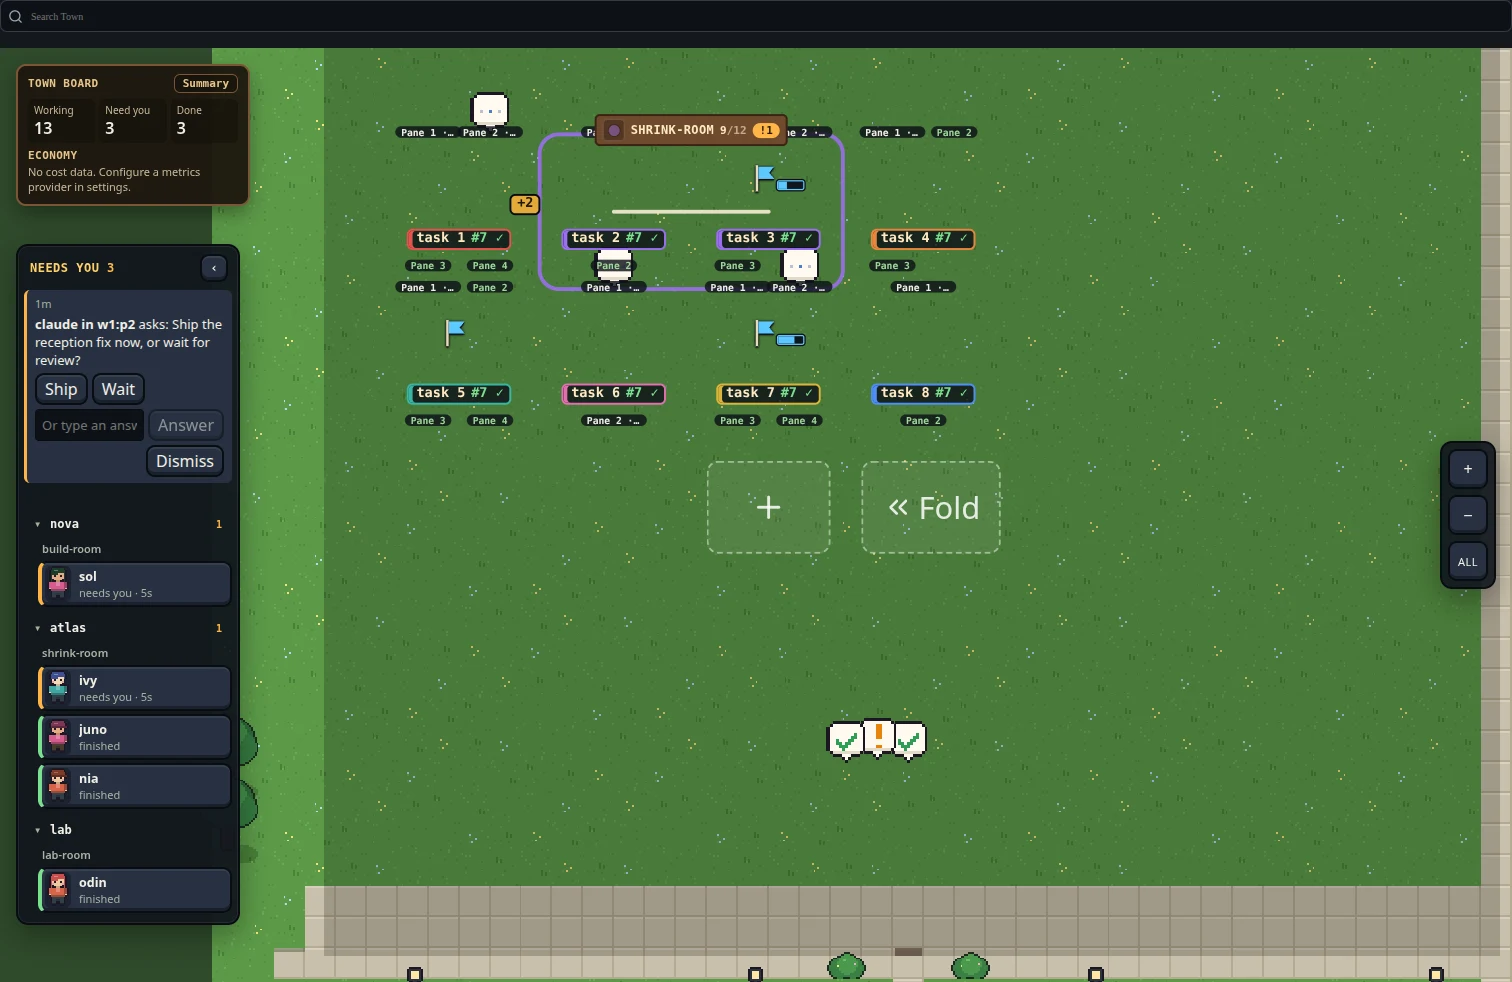
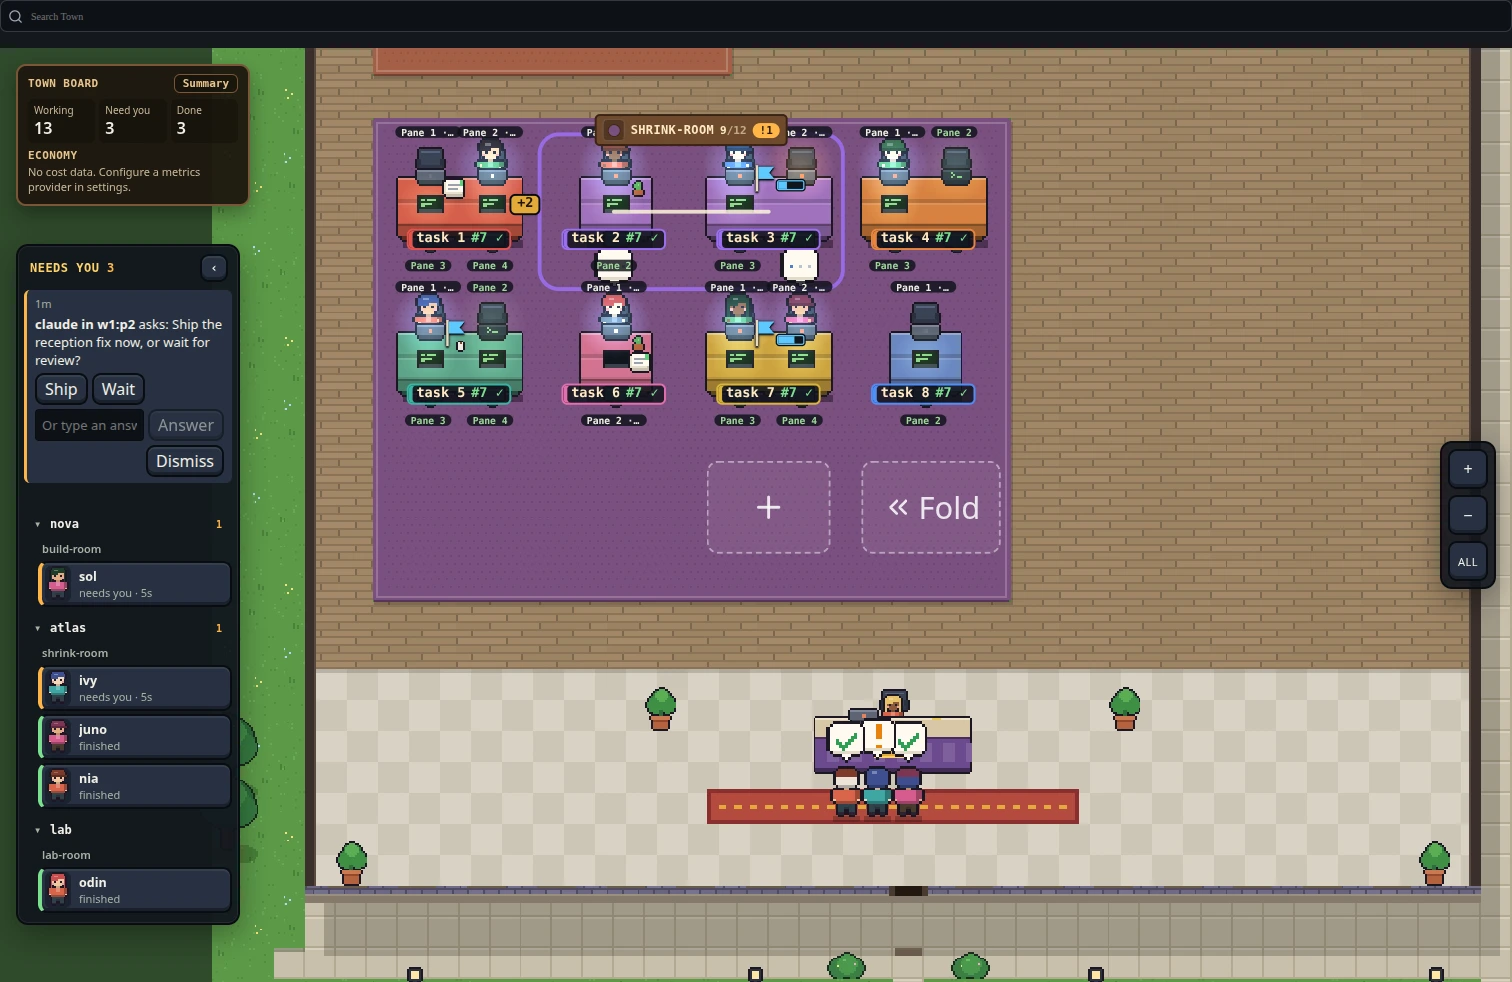
Retake fully rendered Town laptop capture

diff --git a/docs/evidence/town-expanded-room-shrink/README.md b/docs/evidence/town-expanded-room-shrink/README.md
@@ -15,7 +15,10 @@ or agent sessions are used.
 | Wide, 2560 × 1440 | [wide](wide-2560x1440.webp) |
 | Portrait, 1440 × 2560 | [portrait](portrait-1440x2560.webp) |
 
-Captured from the Town browser fixture at PR source `11204307`, using Chromium
-with a 1× device scale factor and the software WebGL renderer. These captures
-show the synthetic closure transition; they do not claim native runtime or
-agent behavior.
+The phone, half-width, wide and portrait captures use PR source `11204307`.
+The laptop capture was retaken from `5c5495b` after the Town renderer reported
+all eight desk sprites visible (`animation.monitors === 8`), then visually
+checked for the room floor, building interior and desk sprites. All captures
+use Chromium at a 1× device scale factor with software WebGL. They show the
+synthetic closure transition; they do not claim native runtime or agent
+behavior.
